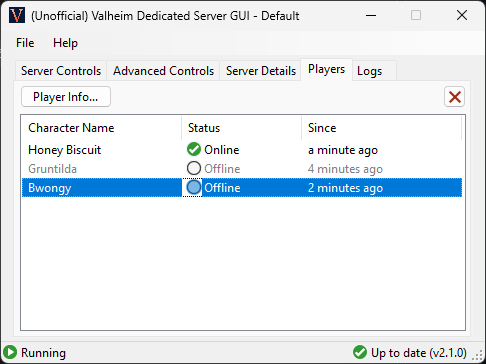
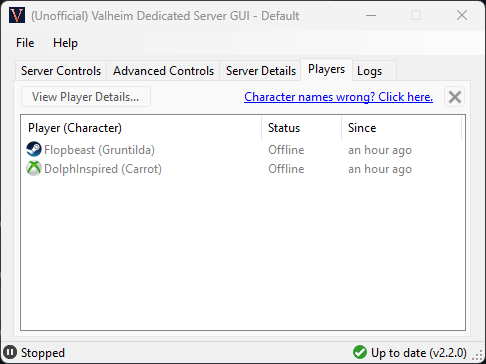
Update Screenshot-Players.png

diff --git a/README.md b/README.md
@@ -32,6 +32,7 @@ In order to run ValheimServerGUI, you will need the following:
 * **It remembers!** - Stores your server info between sessions, and it can't be overwritten by Steam
 * **Status updates** - Clearly shows when your server is running, starting, or stopping
 * **Online players** - Show which players are online or offline, and when they arrived/left
+* **Cross-platform support** - Recognizes players from Steam and Xbox platforms
 * **Easy IP address** - No more guessing, copy the right IP address to give to your friends straight from the app
 * **Cleaner server logs** - Eliminates a lot of the noisy debug logs produced by the server
 * **Input validation** - Prevents you from creating a server with bad info that would fail to launch
@@ -57,7 +58,7 @@ Why choose a dedicated server, and why use ValheimServerGUI? Find the answers on
 
 ## Contributing
 
-Interesting in contributing code to ValheimServerGUI? Check out the guidelines and full developer's guide [here](CONTRIBUTING.md).
+Interested in contributing code to ValheimServerGUI? Check out the guidelines and full developer's guide [here](CONTRIBUTING.md).
 
 ## Support
 
